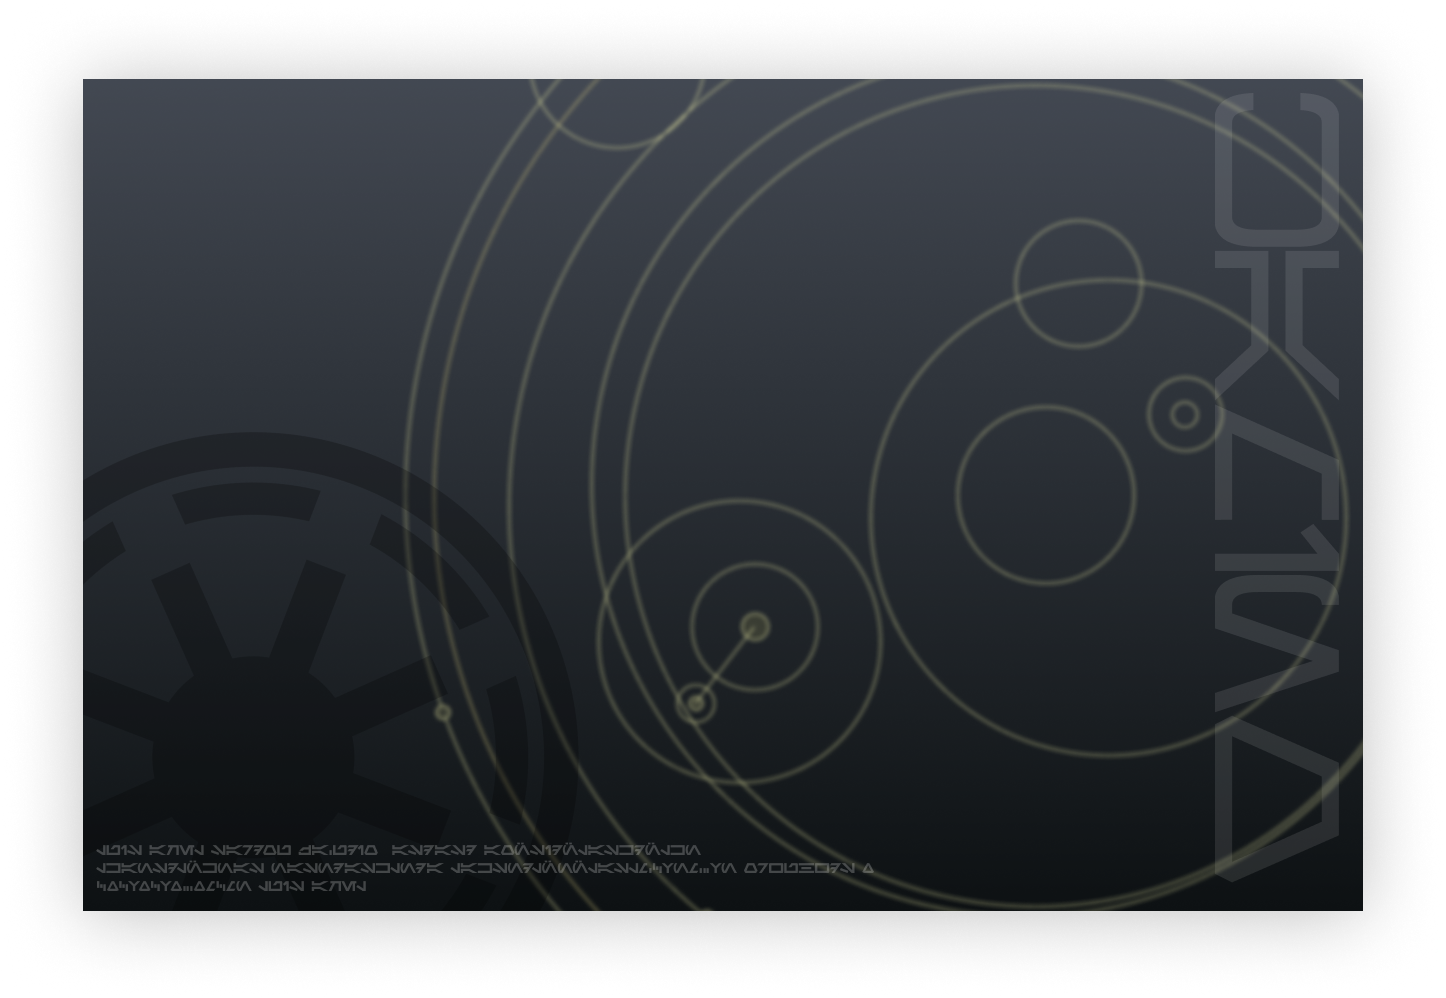
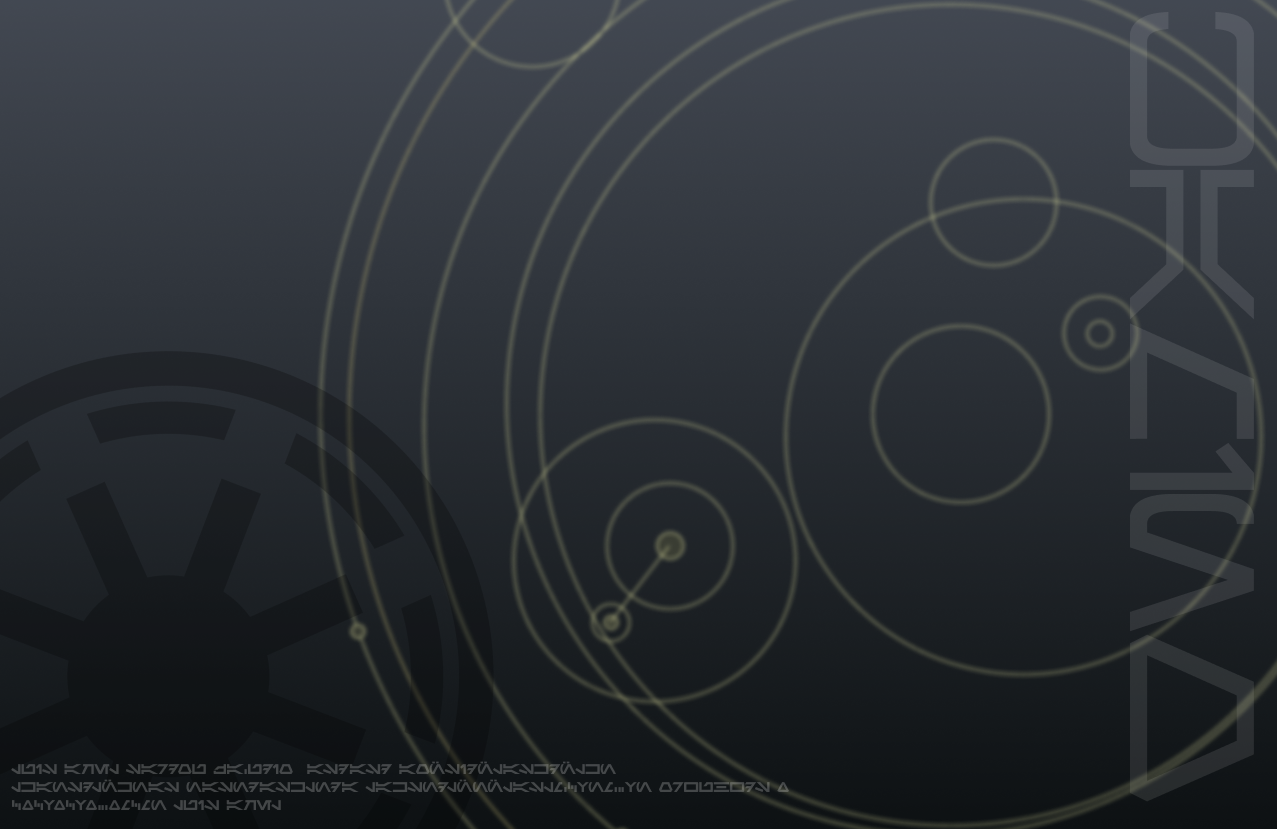
reducirlo todo en un html

diff --git a/html/planet.html b/html/planet.html
@@ -1,15 +1,44 @@
 <!DOCTYPE html>
 <html lang="es">
 <head>
-    <meta charset="UTF-8">
-    <meta name="viewport" content="width=device-width, initial-scale=1.0">
-    <title>Información del Planeta</title>
-    <link rel="stylesheet" href="../css/styles.css">
+  <meta charset="UTF-8">
+  <meta name="viewport" content="width=device-width, initial-scale=1.0">
+  <title>Información del Planeta - Alderaan</title>
+
+  <!-- Bootstrap CSS -->
+  <link href="https://cdn.jsdelivr.net/npm/bootstrap@5.3.0/dist/css/bootstrap.min.css" rel="stylesheet" />
+
+  <!-- Tu CSS compartido -->
+  <link rel="stylesheet" href="../../css/planetas_info.css" />
 </head>
-<body>
-    <div id="planet-info">
+
+<body class="planeta alderaan-bg">
+  <div class="container-fluid vh-100 d-flex align-items-center">
+    <div class="row w-100">
+              
+       <!-- Columna izquierda: Título, línea divisoria e info -->
+      <div class="col-md-6 d-flex flex-column justify-content-center text-white p-4">
+        <h1 id="planet-name" class="titulo-planeta text-center mb-4">Cargando...</h1>
+        <img src="../../media/linea_divisoria.png" alt="Divisor" class="linea-divisoria mb-4 mx-auto" />
+
+          <div id="planet-info">
         <!-- Aquí se mostrará la información del planeta -->
+         </div>
+        <script src="../js/planet.js"></script>
     </div>
-    <script src="../js/planet.js"></script>
+
+      <!-- Columna derecha: imagen del planeta -->
+      <div class="col-md-6 d-flex justify-content-center align-items-center">
+        <img src="../../media/planetas/Alderaan.png" alt="Alderaan" class="planet-img" />
+      </div>
+
+    </div>
+  </div>
+
+  <!-- Bootstrap JS -->
+  <script src="https://cdn.jsdelivr.net/npm/bootstrap@5.3.0/dist/js/bootstrap.bundle.min.js"></script>
+
+  <!-- Tu JS -->
+  <script src="../js/planet.js"></script>
 </body>
 </html>

diff --git a/css/planetas_info.css b/css/planetas_info.css
@@ -1,0 +1,33 @@
+/* Estilos generales */
+.planeta {
+  background-size: cover;
+  background-position: center;
+  background-repeat: no-repeat;
+  background-attachment: fixed;
+  margin: 0;
+  padding: 0;
+  font-family: Arial, sans-serif;
+  color: white;
+}
+
+/* Fondo de cada planeta */
+.alderaan-bg {
+  background-image: url('../media/planetas/fondo_planetas/Aderaan_fondo.png');
+}
+
+/* Imagen del planeta ajustada al lado izquierdo y centrada verticalmente */
+.planet-img {
+  width: 100%;           /* ocupa todo el ancho disponible de la columna */
+  max-width: 100vh;      /* opcional: límite relativo a altura de pantalla */
+  object-fit: contain;   /* mantiene proporción sin recortar */
+  padding-left: 5%;      /* opcional: margen desde el borde */
+}
+
+.linea-divisoria {
+  max-width: 60%;
+  height: auto;
+}
+
+.titulo-planeta {
+  font-size: 3rem;
+}

diff --git a/html/map.html b/html/map.html
@@ -22,7 +22,7 @@
          data-bs-toggle="tooltip" 
          data-bs-html="true" 
          title='<div class="text-center">ALDERAAN</div>'>
-      <img src="/media/planetas/Alderaan.png" class="planet-img" alt="Alderaan" onclick="window.location.href='/html/planetas/alderaan.html'">
+      <img src="/media/planetas/Alderaan.png" class="planet-img" alt="Alderaan" onclick="window.location.href='/html/planet.html'">
     </div>
   </div>
 
